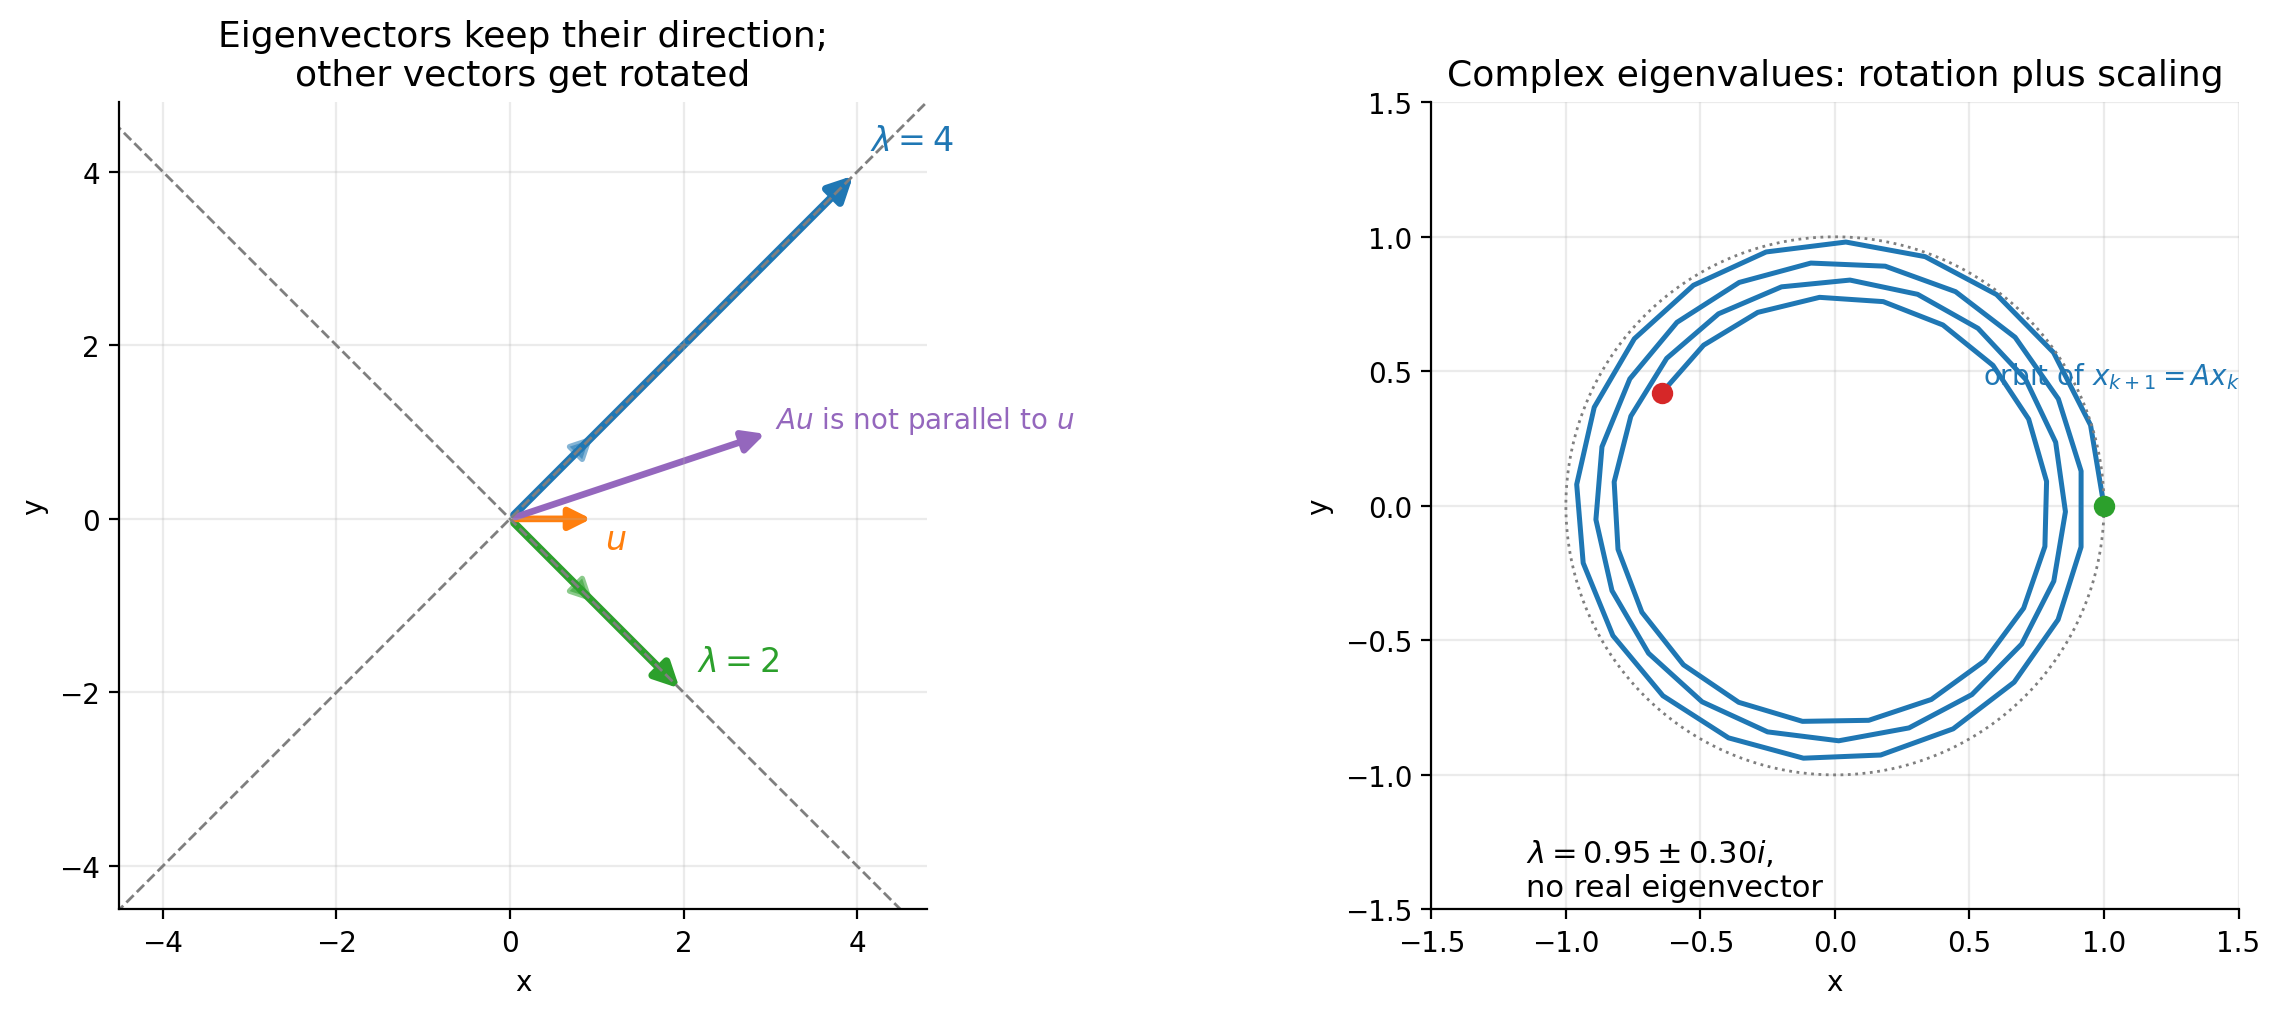
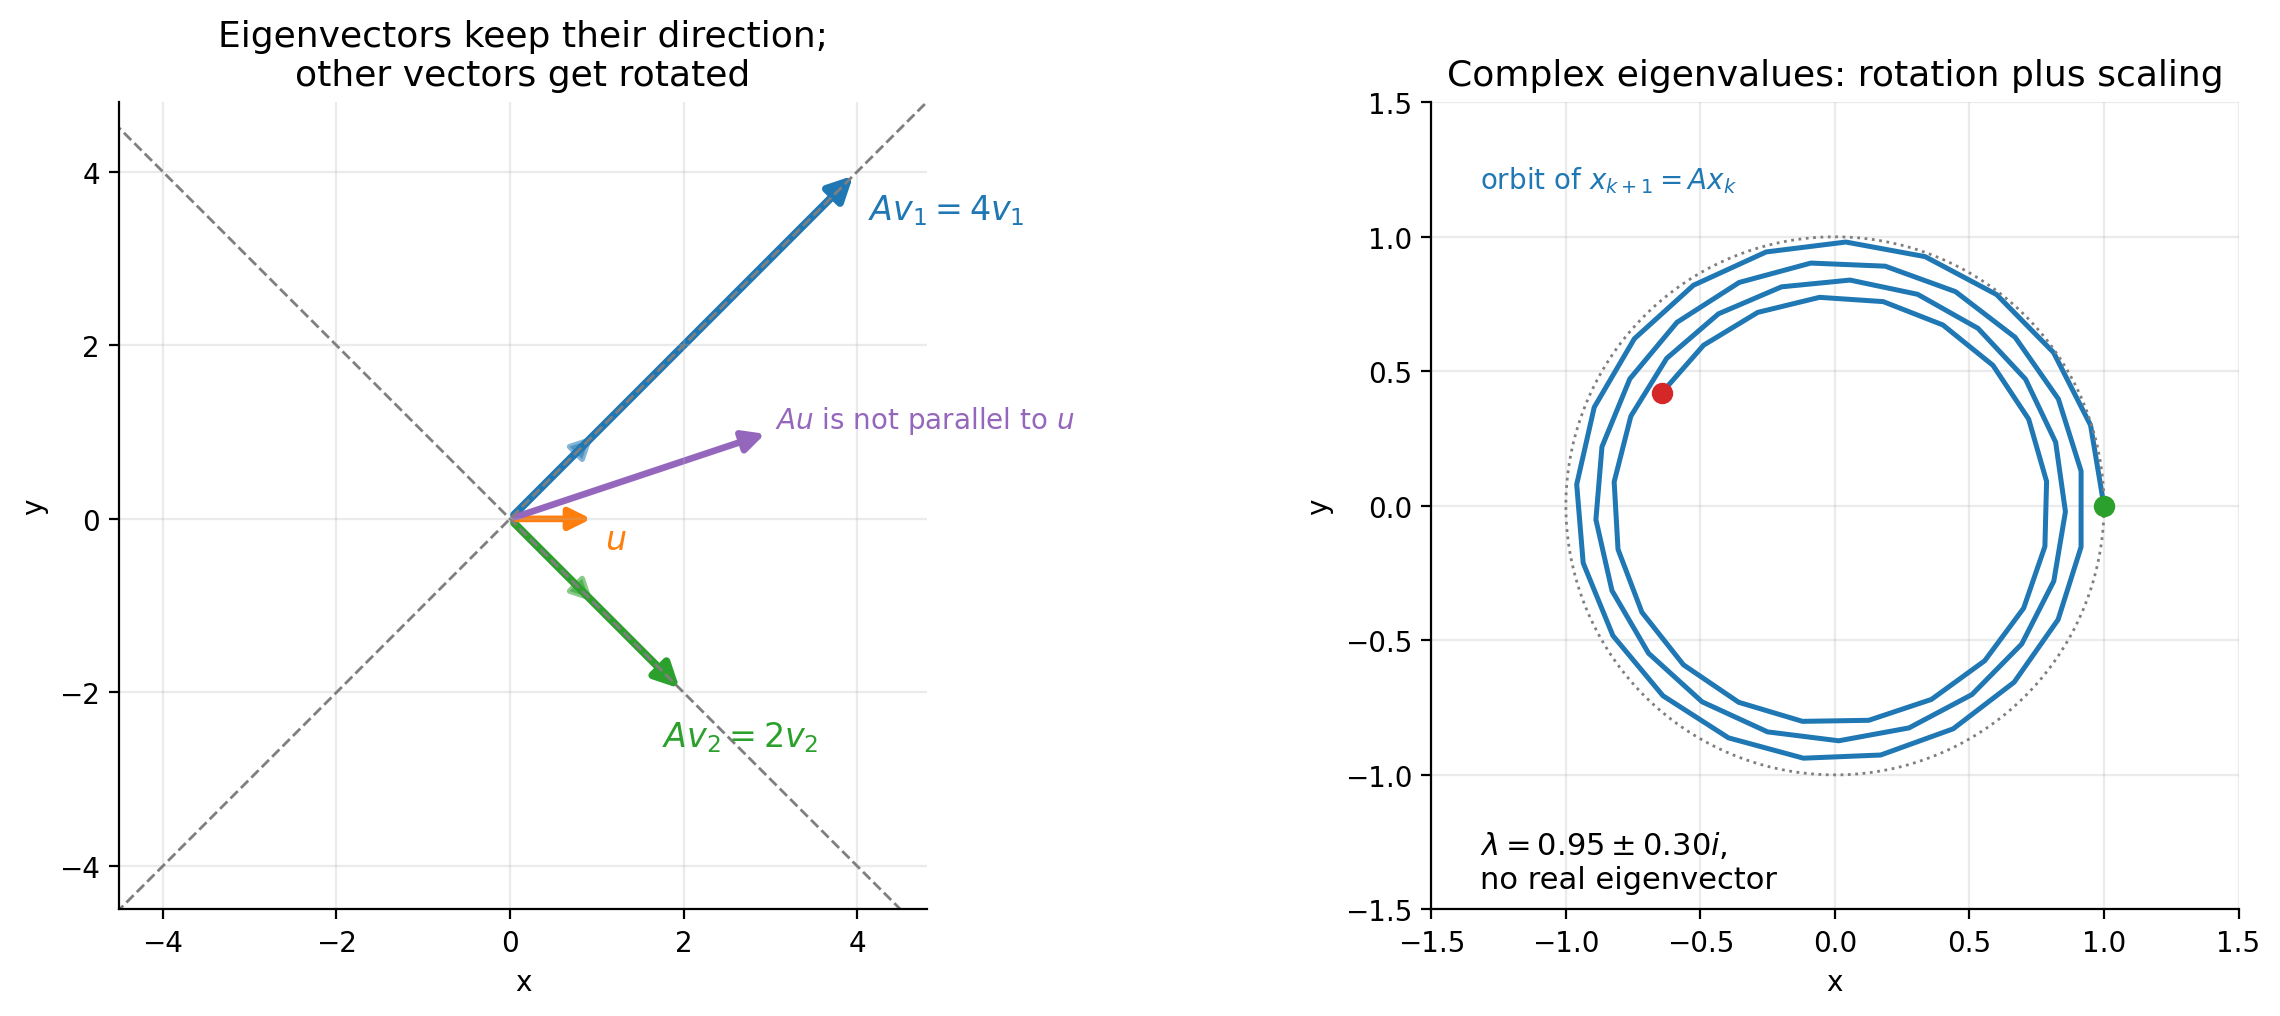
vault backup: 2026-11-01 11:54:35

diff --git a/README.md b/README.md
@@ -28,6 +28,7 @@
 - 2026-11-01：用专题视频深化两篇笔记——L19 补「迹=散度」的几何意义与 $\det(e^{At})=e^{t\operatorname{tr}A}$；L20 补耦合振子（简正模式）、PCA（方差极值）、PageRank（$\lambda=1$）三个图景；同步 Overview、主页、Review 与 Inbox。
 - 2026-11-01：按当前学习重点跳过 lecture 23~26，建立 L21~L24 占位笔记，讲次号保留待补。
 - 2026-11-01：整理 [[L25 正定矩阵与极小值]]（lecture 27 + 习题课）——四种判别法、配方=消元、碗与马鞍、椭圆主轴、Hessian 与极小值、三对角与参数 $c$ 数例；配三张英文标注彩色图；同步 STDY、Overview、主页、Review 与 Inbox。
+- 2026-11-01：为 [[L1 线性方程的几何]]、[[L10 四个基本子空间]]、[[L14 投影与最小二乘]]、[[L15 正交矩阵与 Gram-Schmidt]]、[[L18 行列式的应用 Cramer法则与体积]]、[[L19 特征值与特征向量]]、[[L20 对角化与矩阵的幂]] 各补一张英文标注彩色示意图（行/列图像、四空间正交补、投影与最小二乘、Gram-Schmidt、行列式与面积、特征向量几何、换坐标）。
 
 **下一步**：L21~L24 有材料再回补；主线从 lecture 28 起，等 Ref 材料。
 

diff --git a/Math/Linear Algebra/STDY/L19 特征值与特征向量.md b/Math/Linear Algebra/STDY/L19 特征值与特征向量.md
@@ -209,6 +209,9 @@ $$
 
 ## 直观理解
 
+![[L19_eigenvector_geometry.png]]
+*左：对称矩阵 $A=\begin{bmatrix}3&1\\1&3\end{bmatrix}$ 的 $v_1=(1,1)$、$v_2=(1,-1)$ 被拉到同一条直线上（$4v_1$、$2v_2$），普通向量 $u$ 的方向则改变了；右：复特征值的矩阵没有实特征方向，迭代轨道是旋转加缩放。*
+
 - **特征向量是变换的「骨架方向」**：在二维里，$A$ 把大多数向量推离原方向；特征向量是那几条「推完还在同一条直线上」的方向。$\lambda>1$ 拉长，$0<\lambda<1$ 缩短，$\lambda<0$ 反向，$\lambda=0$ 压扁到原点。
 - **投影**：平面内的方向不动（$\lambda=1$），法线方向被压成零（$\lambda=0$）。这就是「投影把三维压成二维」的代数描述。
 - **旋转**：没有实的不动方向，所以没有实特征向量；复数特征值描述的是「旋转」这种没有实缩放方向的动作。

diff --git a/Math/Linear Algebra/主页.md b/Math/Linear Algebra/主页.md
@@ -69,7 +69,7 @@ flowchart LR
 
 ## 当前进度
 
-- 当前：L25 正定矩阵与极小值笔记完成（2026-11-01），lecture 27 与习题课已整理；配三张英文标注彩色图（碗/马鞍、椭圆与主轴、临界方向能量）。
+- 当前：L25 正定矩阵与极小值笔记完成（2026-11-01），lecture 27 与习题课已整理；配三张英文标注彩色图（碗/马鞍、椭圆与主轴、临界方向能量）。同期给 L1、L10、L14、L15、L18、L19、L20 各补一张彩色示意图。
 - 讲次安排：L21（微分方程，lecture 23）、L22（马尔可夫与傅里叶，lecture 24）、L23（对称矩阵，lecture 25）、L24（复矩阵与 FFT，lecture 26）暂跳，保留空位，之后补写；主线按实际进度走到 L25。
 
 ## 掌握度

diff --git a/Math/Linear Algebra/STDY/L18 行列式的应用 Cramer法则与体积.md b/Math/Linear Algebra/STDY/L18 行列式的应用 Cramer法则与体积.md
@@ -162,6 +162,9 @@ $$
 \text{Area}=\frac12|\det\begin{bmatrix}a&b\\c&d\end{bmatrix}|.
 $$
 
+![[L18_determinant_area.png]]
+*左：$A=\begin{bmatrix}2&1\\0&2\end{bmatrix}$ 把单位正方形变成面积为 $4=|\det A|$ 的平行四边形；右：$B=\begin{bmatrix}1&1\\2&2\end{bmatrix}$ 行列式为零，正方形被压成一条线段（面积 $0$）。*
+
 **三维数例**（习题课）：四面体顶点为原点、$A_1=(2,2,-1)$、$A_2=(1,3,0)$、$A_3=(-1,1,4)$。它由三个向量张成的平行六面体的 $1/6$：
 
 $$

diff --git a/Math/Linear Algebra/STDY/L10 四个基本子空间.md b/Math/Linear Algebra/STDY/L10 四个基本子空间.md
@@ -114,6 +114,9 @@ flowchart LR
 
 $A$ 只「看见」行空间，把它一一对应到列空间；零空间被压成原点。左零空间是输出端到不了的方向。
 
+![[L10_four_subspaces.png]]
+*秩 1 例子 $A=uv^{\mathsf T}$，$u=(1,2)$、$v=(0,0,1)$：左图 $\mathbb R^3$ 里行空间（$z$ 轴）与零空间（$xy$ 平面）互为正交补；右图 $\mathbb R^2$ 里列空间与左零空间同样正交。*
+
 ## 例子：全部信息
 
 | 空间 | 维数 | 基 |

diff --git a/Math/Linear Algebra/STDY/L15 正交矩阵与 Gram-Schmidt.md b/Math/Linear Algebra/STDY/L15 正交矩阵与 Gram-Schmidt.md
@@ -132,6 +132,9 @@ $$
 A^{\mathsf T}B=A^{\mathsf T}b-\frac{A^{\mathsf T}b}{A^{\mathsf T}A}\,A^{\mathsf T}A=A^{\mathsf T}b-A^{\mathsf T}b=0.
 $$
 
+![[L15_gram_schmidt.png]]
+*二维示意（$a_1=(3,1)$，$a_2=(1,2)$）：$a_2$ 减去在 $a_1$ 上的投影得到 $e$，$e\perp a_1$；归一化后 $q_1,q_2$ 成为标准正交基（直角标记与单位圆）。*
+
 ### 第三步
 
 $c$ 在 $A$、$B$ 两个方向都有分量，逐个减掉：

diff --git a/Math/Linear Algebra/STDY/L1 线性方程的几何.md b/Math/Linear Algebra/STDY/L1 线性方程的几何.md
@@ -21,6 +21,9 @@ $$
 
 解 $(1,2)$ 就是「1 个第一列 + 2 个第二列」。**$Ax$ 永远读作 $A$ 的列的线性组合**，系数是 $x$ 的分量。
 
+![[L1_row_vs_column.png]]
+*左：行图像，两条直线交于 $(1,2)$；右：列图像，$c_1=(2,-1)$ 与 $c_2=(-1,2)$ 的组合 $1c_1+2c_2=(0,3)=b$，虚线画出平行四边形。*
+
 ## 解的存在性与奇异
 
 | 情况 | 列图像 | 例子 |

diff --git a/Math/Linear Algebra/STDY/L14 投影与最小二乘.md b/Math/Linear Algebra/STDY/L14 投影与最小二乘.md
@@ -400,6 +400,9 @@ $$
 
 因为 $e\perp C(A)$，交叉项为零。所以 $p$ 确实是最近点。
 
+![[L14_projection_least_squares.png]]
+*左：$b$ 投到平面上得 $p$，误差 $e=b-p$ 与平面垂直（直角标记）；右：最小二乘直线让所有竖直残差的平方和最小。*
+
 ```mermaid
 flowchart TB
     B["b ∈ Rᵐ"] --> P["p = Ax̂ ∈ C(A)"]

diff --git a/Math/Linear Algebra/STDY/L20 对角化与矩阵的幂.md b/Math/Linear Algebra/STDY/L20 对角化与矩阵的幂.md
@@ -60,6 +60,9 @@ S\Lambda S^{-1}
 =\begin{bmatrix}3&1\\1&3\end{bmatrix}.
 $$
 
+![[L20_change_of_basis.png]]
+*左：标准基下 $A=\begin{bmatrix}3&1\\1&3\end{bmatrix}$ 把方格网剪成斜网格；右：换到特征向量坐标后，同一个变换只是沿两条轴分别放大 $4$ 倍与 $2$ 倍。*
+
 ## 幂：对角化最直接的回报
 
 $$
